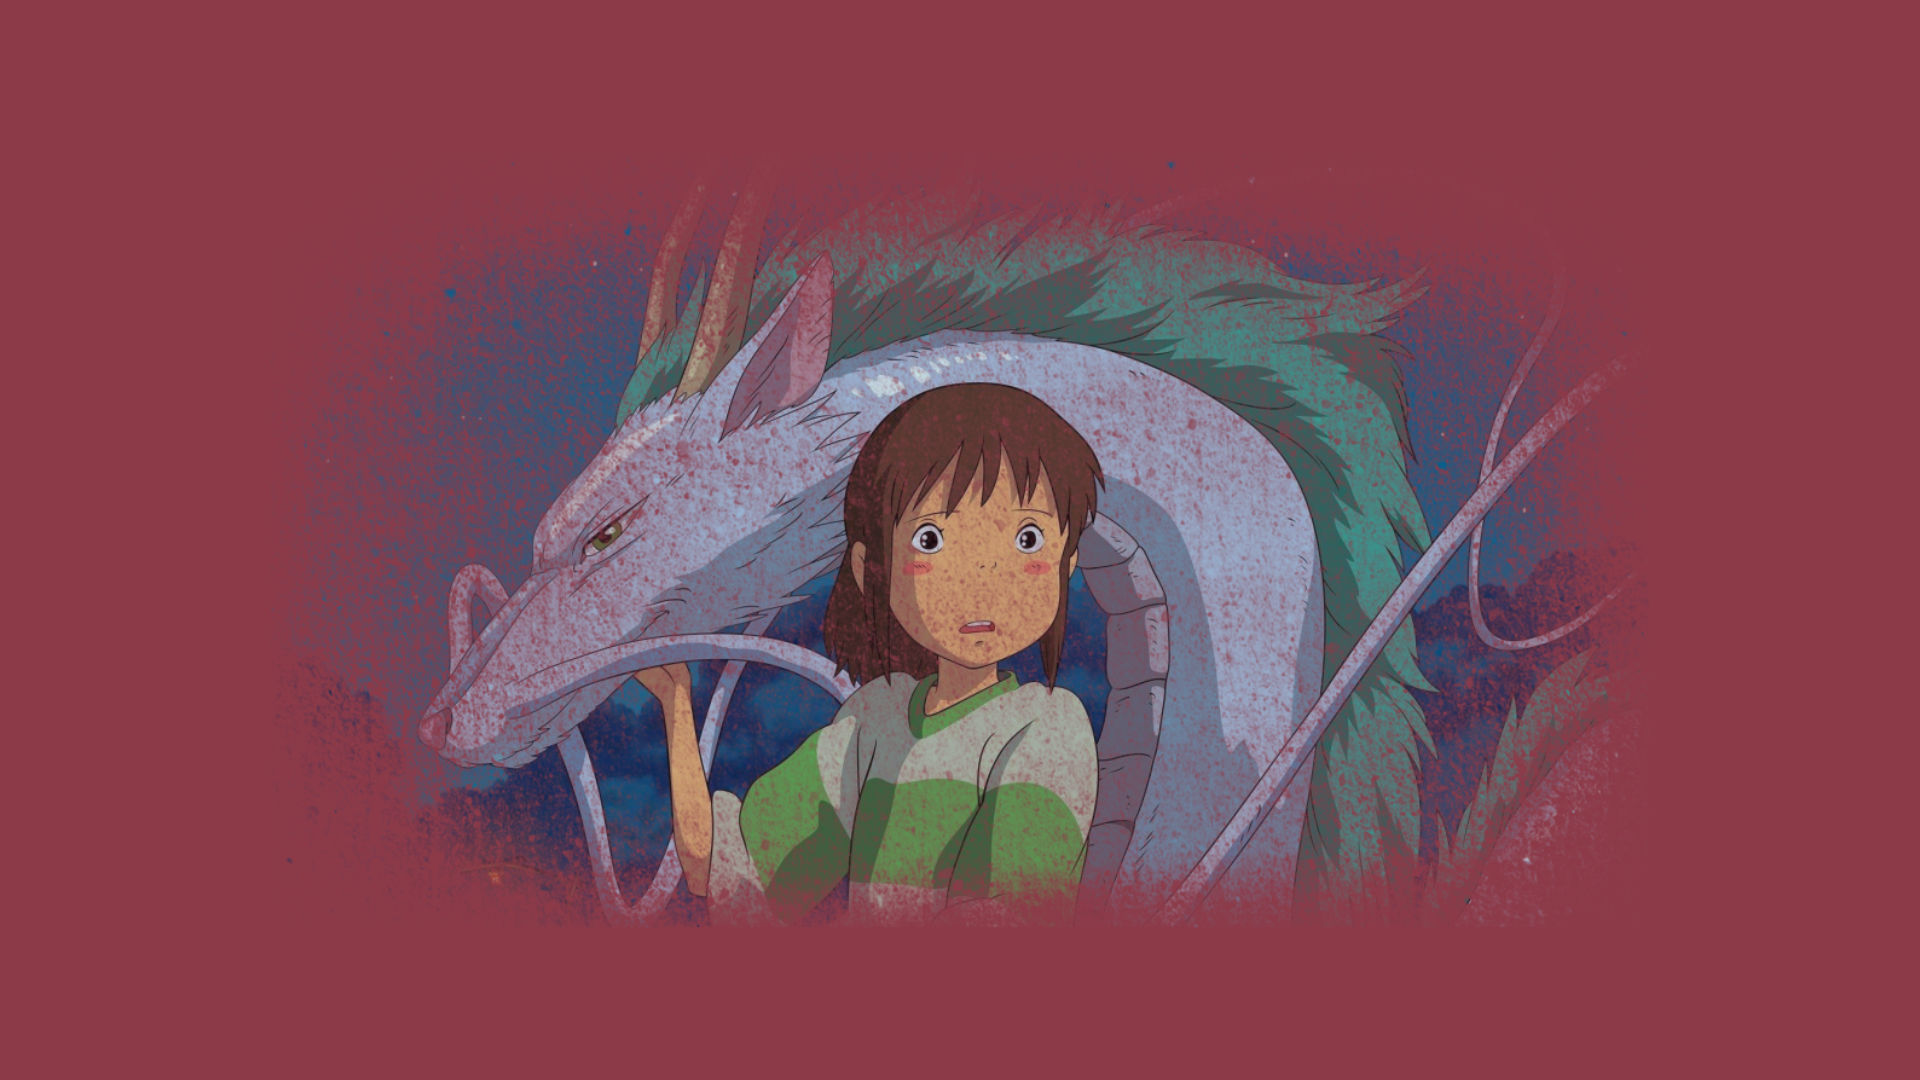
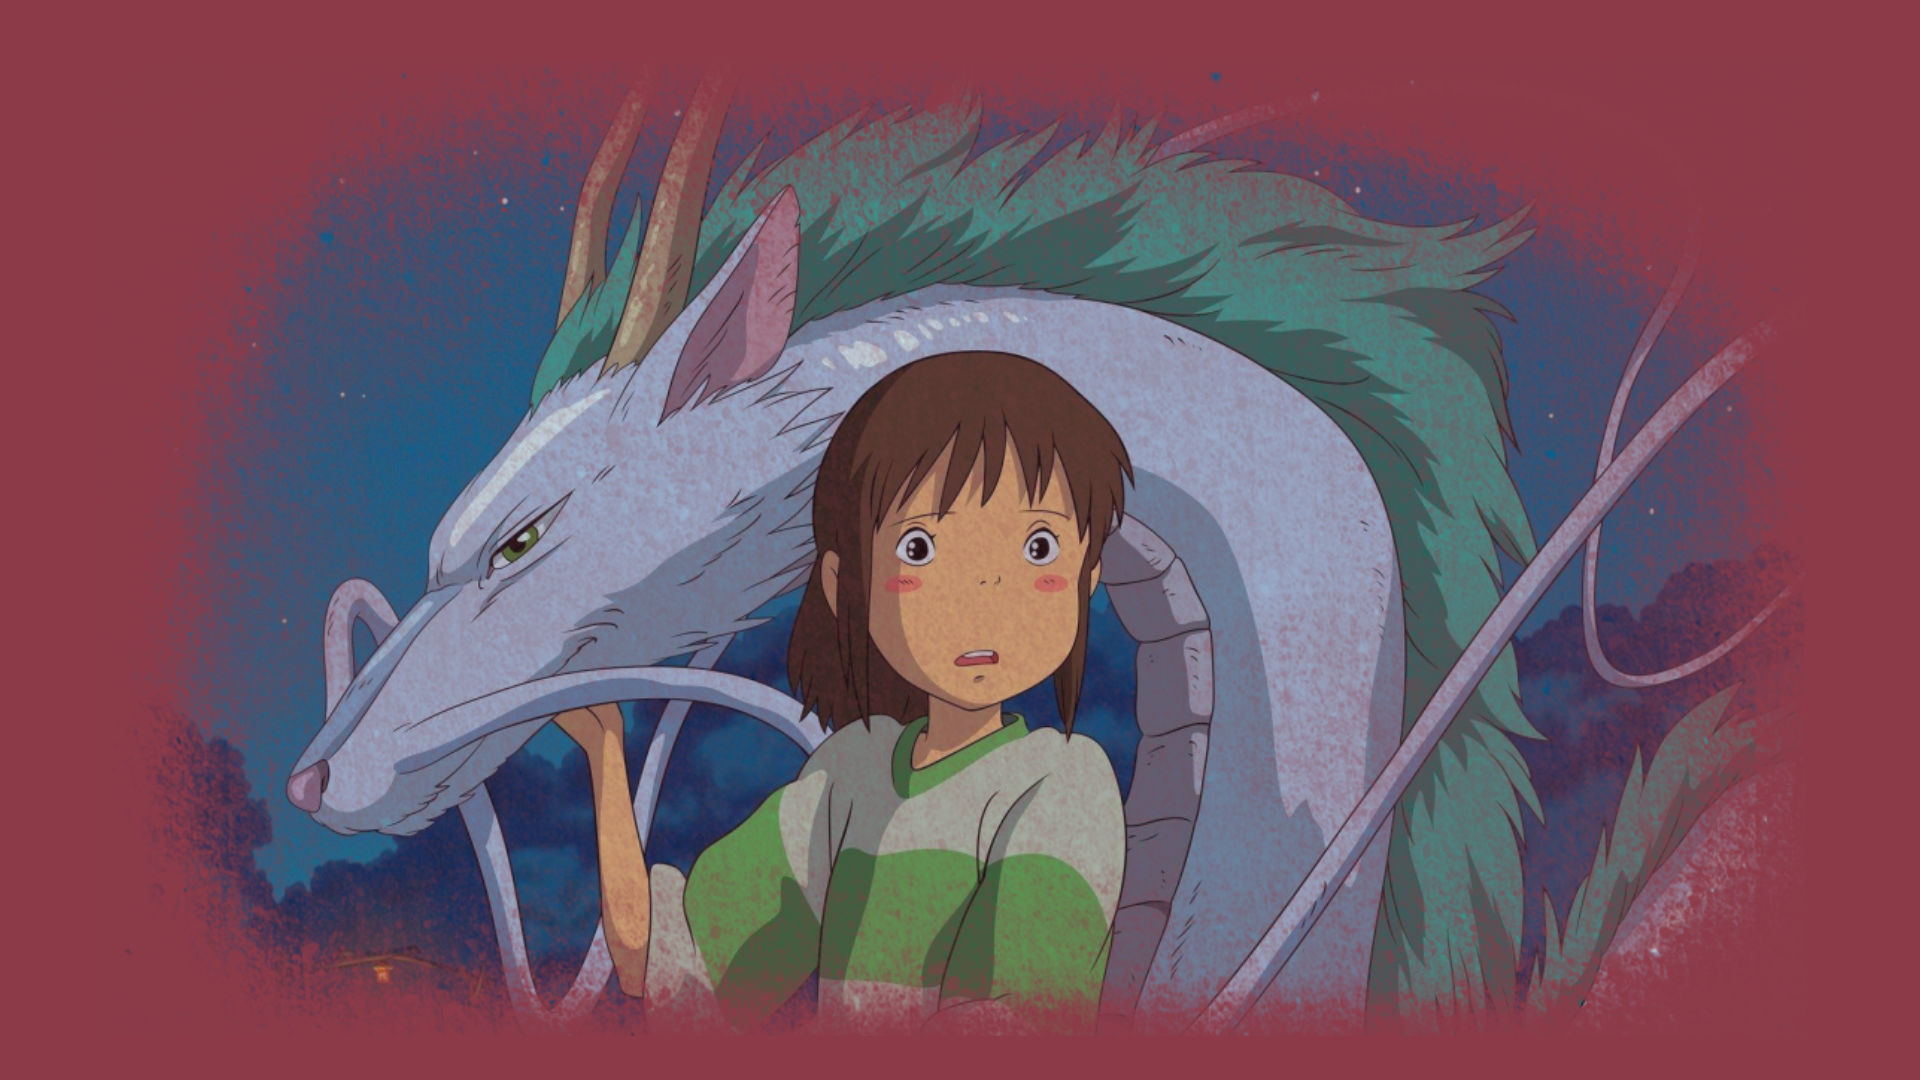
.

diff --git a/index.html b/index.html
@@ -33,12 +33,15 @@
         </div>
         <nav class="nav">
             <img src="img/burger.svg" alt="burger-icon" id="burger">
-
+            
             <div class="nav-desktop">
-                <a href="index.html" class="active-site">Home</a>
-                <a href="bloglist.html">All posts</a>
-                <a href="about.html">About us</a>
-                <a href="contact.html">Contact us</a>
+                <img src="img/kamikaze-regular.svg" alt="anime blog logo" id="logo">
+                <div class="desk-links">
+                    <a href="index.html" class="active-site">Home</a>
+                    <a href="bloglist.html">All posts</a>
+                    <a href="about.html">About us</a>
+                    <a href="contact.html">Contact us</a>
+                </div>
             </div>
         </nav>
     </header>
@@ -47,7 +50,7 @@
         <div class="heroImg">
             <h1 class="h1-mobile-index">Welcome to the anime blog!</h1>
             <h2>Latest news about your favorite animes</h2>
-            <img src="img/animebg.jpg" alt="Hero image of spirited away">
+            <img src="img/spiritedaway.jpg" alt="Hero image of spirited away">
         </div>
     </div>
     

diff --git a/styles/style.css b/styles/style.css
@@ -137,7 +137,6 @@ footer p {
 }
 
 .h1-mobile-index {
-    color: white;
     margin: 60px 0 20px 0;
 }
 
@@ -436,9 +435,21 @@ footer p {
         align-items: center;
     }
 
+    #logo {
+        width: 250px;
+    }
+
+    .desk-links {
+        display: flex;
+        justify-content: flex-end;
+        align-items: center;
+        width: 80%;
+    }
+
     .nav-desktop a {
         font-size: 18px;
         border-bottom: solid 4px transparent;
+        margin: 0 30px;
     }
 
     .nav-desktop a:hover {
@@ -467,9 +478,18 @@ footer p {
 
     .heroImg {
         display: flex;
-        justify-content: center;
+        
         margin: 0 auto;
         width: 80%;
+    }
+
+    .h1-mobile-index {
+        color: white;
+        margin: 0;
+    }
+
+    .heroImg h2 {
+        margin: 60px 0 0 30px;
     }
 
     .heroImg h1, .heroImg h2 {
@@ -478,7 +498,8 @@ footer p {
     }
 
     .heroImg img {
-        width: 1100px;
+        margin: 0 auto;
+        width: 1300px;
     }
 }
 
